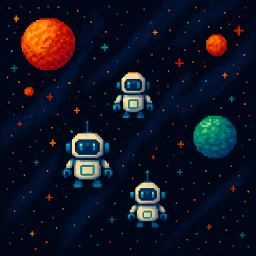
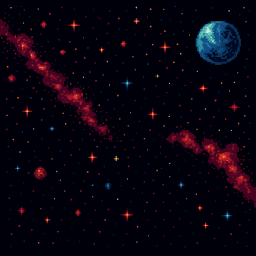
fix:stage2の画像を差し替え
- stage2BOSSが色抜けしないよう、背景を緑に変更
- stage2の背景画像を差し替え

関連:

diff --git a/firstshot/scenes/scenes_play_stage/play_scene.py b/firstshot/scenes/scenes_play_stage/play_scene.py
@@ -1,7 +1,7 @@
 import pygame
 import pyxel
 
-from firstshot.constants import SCREEN_HEIGHT, CLEAR_COLOR, SCREEN_WIDTH
+from firstshot.constants import SCREEN_HEIGHT, COLOR_BLACK, SCREEN_WIDTH
 from firstshot.logic.collision import check_collision
 
 
@@ -100,7 +100,7 @@ class PlayScene:
 
         # 情報スペースを表示
         pyxel.rectb(200, 0, 56, SCREEN_HEIGHT, 0)
-        pyxel.rect(201, 1, 54, SCREEN_HEIGHT - 2, CLEAR_COLOR)
+        pyxel.rect(201, 1, 54, SCREEN_HEIGHT - 2, COLOR_BLACK)
         # 各情報を描画する
         pyxel.text(208, 32, "SCORE", 0, self.game.font)
         pyxel.text(208, 48, f"{self.game.game_data.score:05}", 0, self.game.font)

diff --git a/firstshot/entities/enemies/enemy_stage2_boss_right.py b/firstshot/entities/enemies/enemy_stage2_boss_right.py
@@ -1,6 +1,6 @@
 import pyxel
 
-from firstshot.constants import CLEAR_COLOR
+from firstshot.constants import COLOR_GREEN
 from firstshot.entities import Bullet
 from firstshot.entities.enemies import Enemy
 
@@ -46,4 +46,4 @@ class StageTwoBossRight(Enemy):
     # 敵を描画する
     def draw(self):
         """ボスを描画する。"""
-        pyxel.blt(self.x, self.y, self.game.boss_state.image, 64, 24, 60, 80, CLEAR_COLOR)
+        pyxel.blt(self.x, self.y, self.game.boss_state.image, 61, 24, 60, 80, COLOR_GREEN)

diff --git a/firstshot/entities/enemies/enemy_stage2_boss_left.py b/firstshot/entities/enemies/enemy_stage2_boss_left.py
@@ -1,6 +1,6 @@
 import pyxel
 
-from firstshot.constants import CLEAR_COLOR
+from firstshot.constants import COLOR_GREEN
 from firstshot.entities import Bullet
 from firstshot.entities.enemies import Enemy
 
@@ -43,4 +43,4 @@ class StageTwoBossLeft(Enemy):
     # 敵を描画する
     def draw(self):
         """ボスを描画する。"""
-        pyxel.blt(self.x, self.y, self.game.boss_state.image, 0, 24, 64, 80, CLEAR_COLOR)
+        pyxel.blt(self.x, self.y, self.game.boss_state.image, 0, 24, 60, 80, COLOR_GREEN)

diff --git a/firstshot/entities/enemies/enemy_stage1_boss.py b/firstshot/entities/enemies/enemy_stage1_boss.py
@@ -1,6 +1,6 @@
 import pyxel
 
-from firstshot.constants import CLEAR_COLOR
+from firstshot.constants import COLOR_BLACK
 from firstshot.entities import Bullet
 from firstshot.entities.enemies import Enemy
 
@@ -48,4 +48,4 @@ class StageOneBoss(Enemy):
     # 敵を描画する
     def draw(self):
         """ボスを描画する。"""
-        pyxel.blt(self.x, self.y, self.game.boss_state.image, 0, 0, 64, 64, CLEAR_COLOR)
+        pyxel.blt(self.x, self.y, self.game.boss_state.image, 0, 0, 64, 64, COLOR_BLACK)

diff --git a/firstshot/scenes/select_pilot_scene.py b/firstshot/scenes/select_pilot_scene.py
@@ -8,7 +8,7 @@ from firstshot.constants import (
     PILOT1_IMAGE,
     PILOT2_IMAGE,
     PILOT3_IMAGE,
-    CLEAR_COLOR,
+    COLOR_BLACK,
     SCREEN_WIDTH,
 )
 
@@ -70,7 +70,7 @@ class SelectPilotScene:
     def draw(self):
         """画面の描画処理。"""
         # 画面をクリアする
-        pyxel.cls(CLEAR_COLOR)
+        pyxel.cls(COLOR_BLACK)
         # パイロットの表示
         pyxel.blt(0, 0, self.pilot_image, 0, 0, SCREEN_WIDTH, 200)
         # メッセージの表示

diff --git a/firstshot/entities/player.py b/firstshot/entities/player.py
@@ -16,7 +16,7 @@ from firstshot.constants import (
     PLAYER_BULLET_ANGLE_RIGHT,
     PLAYER_BULLET_ANGLE_LEFT_WIDE,
     PLAYER_BULLET_ANGLE_RIGHT_WIDE,
-    CLEAR_COLOR,
+    COLOR_BLACK,
 )
 from firstshot.entities import Blast, Bullet
 
@@ -126,4 +126,4 @@ class Player:
     # 自機を描画する
     def draw(self):
         """プレイヤーを描画する。"""
-        pyxel.blt(self.x, self.y, 0, 0, 0, 8, 8, CLEAR_COLOR)
+        pyxel.blt(self.x, self.y, 0, 0, 0, 8, 8, COLOR_BLACK)

diff --git a/firstshot/game.py b/firstshot/game.py
@@ -11,7 +11,7 @@ from firstshot.constants import (
     RESOURCE_FILE,
     IMAGE_PANK_PATH,
     TITLE_IMAGE_PATH,
-    CLEAR_COLOR,
+    COLOR_BLACK,
     SCREEN_WIDTH,
     SCREEN_HEIGHT,
 )
@@ -98,7 +98,7 @@ class Game:
     def draw(self):
         """ゲーム全体の描画処理。"""
         # 画面を黒でクリアする
-        pyxel.cls(CLEAR_COLOR)
+        pyxel.cls(COLOR_BLACK)
 
         # 現在のシーンを描画する
         self.scenes[self.game_data.scene_name].draw()

diff --git a/firstshot/entities/enemies/enemy_robot_around_shooter.py b/firstshot/entities/enemies/enemy_robot_around_shooter.py
@@ -1,6 +1,6 @@
 import pyxel
 
-from firstshot.constants import CLEAR_COLOR
+from firstshot.constants import COLOR_BLACK
 from firstshot.entities import Bullet
 from firstshot.entities.enemies import Enemy
 
@@ -27,4 +27,4 @@ class RobotAroundShooter(Enemy):
     # 敵を描画する
     def draw(self):
         """敵を描画する。"""
-        pyxel.blt(self.x, self.y, 0, 5, 20, 15, 20, CLEAR_COLOR)
+        pyxel.blt(self.x, self.y, 0, 5, 20, 15, 20, COLOR_BLACK)

diff --git a/firstshot/entities/enemies/enemy_robot_player_shooter.py b/firstshot/entities/enemies/enemy_robot_player_shooter.py
@@ -1,6 +1,6 @@
 import pyxel
 
-from firstshot.constants import CLEAR_COLOR
+from firstshot.constants import COLOR_BLACK
 from firstshot.entities import Bullet
 from firstshot.entities.enemies import Enemy
 
@@ -27,4 +27,4 @@ class RobotPlayerShooter(Enemy):
     # 敵を描画する
     def draw(self):
         """敵を描画する。"""
-        pyxel.blt(self.x, self.y, 0, 2, 42, 18, 18, CLEAR_COLOR)
+        pyxel.blt(self.x, self.y, 0, 2, 42, 18, 18, COLOR_BLACK)

diff --git a/firstshot/entities/enemies/enemy_around_shooter.py b/firstshot/entities/enemies/enemy_around_shooter.py
@@ -1,6 +1,6 @@
 import pyxel
 
-from firstshot.constants import CLEAR_COLOR
+from firstshot.constants import COLOR_BLACK
 from firstshot.entities import Bullet
 from firstshot.entities.enemies import Enemy
 
@@ -27,4 +27,4 @@ class AroundShooter(Enemy):
     # 敵を描画する
     def draw(self):
         """敵を描画する。"""
-        pyxel.blt(self.x, self.y, 0, 26, 18, 12, 12, CLEAR_COLOR)
+        pyxel.blt(self.x, self.y, 0, 26, 18, 12, 12, COLOR_BLACK)

diff --git a/firstshot/entities/enemies/enemy_player_shooter.py b/firstshot/entities/enemies/enemy_player_shooter.py
@@ -1,6 +1,6 @@
 import pyxel
 
-from firstshot.constants import CLEAR_COLOR
+from firstshot.constants import COLOR_BLACK
 from firstshot.entities import Bullet
 from firstshot.entities.enemies import Enemy
 
@@ -27,4 +27,4 @@ class PlayerShooter(Enemy):
     # 敵を描画する
     def draw(self):
         """敵を描画する。"""
-        pyxel.blt(self.x, self.y, 0, 15, 52, 12, 12, CLEAR_COLOR)
+        pyxel.blt(self.x, self.y, 0, 15, 52, 12, 12, COLOR_BLACK)

diff --git a/firstshot/entities/enemies/enemy_robot_follow.py b/firstshot/entities/enemies/enemy_robot_follow.py
@@ -1,6 +1,6 @@
 import pyxel
 
-from firstshot.constants import CLEAR_COLOR
+from firstshot.constants import COLOR_BLACK
 from firstshot.entities.enemies import Enemy
 
 
@@ -32,4 +32,4 @@ class RobotFollow(Enemy):
     # 敵を描画する
     def draw(self):
         """敵を描画する。"""
-        pyxel.blt(self.x, self.y, 0, 24, 20, 20, 16, CLEAR_COLOR)
+        pyxel.blt(self.x, self.y, 0, 24, 20, 20, 16, COLOR_BLACK)
